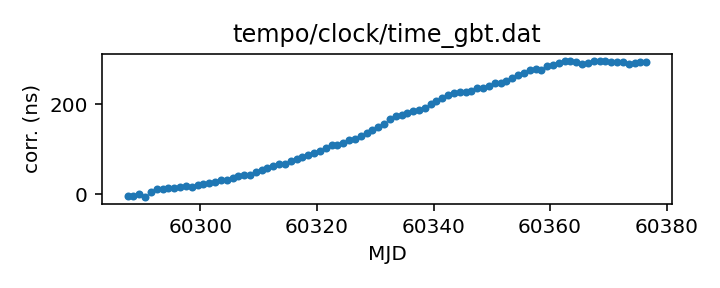
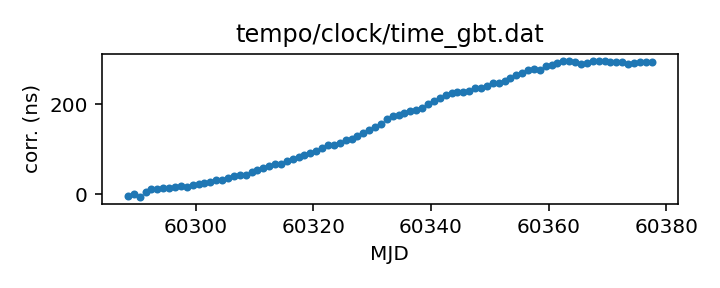
Routine gh-pages update from Github action Sat Mar  9 20:29:57 UTC 2024

diff --git a/status.md b/status.md
@@ -13,17 +13,17 @@ name of each clock file links to a page with more details.
 
 | Name | File | Corrections start | Corrections end | Last check date | Last check result 
 |:--- |:--- | --- | --- | --- |:--- 
-| [GPS to UTC](T2runtime/clock/gps2utc.clk.html) | `T2runtime/clock/gps2utc.clk` | 1993-01-01 MJD 48988.0 | 2024-01-30 MJD 60339.0 | 2024-03-08 | Unchanged 
-| [GPS to UTC (Combined Clock)](T2runtime/clock/gps2utc_cc.clk.html) | `T2runtime/clock/gps2utc_cc.clk` | 1993-01-01 MJD 48988.0 | 2024-01-30 MJD 60339.0 | 2024-03-08 | Unchanged 
-| [GPS to UTC (Corrected)](T2runtime/clock/gps2utc_c0p.clk.html) | `T2runtime/clock/gps2utc_c0p.clk` | 2010-12-29 MJD 55559.0 | 2024-01-30 MJD 60339.0 | 2024-03-08 | Unchanged 
-| [GBT](tempo/clock/time_gbt.dat.html) | `tempo/clock/time_gbt.dat` | 2000-12-31 MJD 51909.5 | 2024-03-07 MJD 60376.5 | 2024-03-08 | Updated 
-| [GBT (TEMPO2 converted from TEMPO)](T2runtime/clock/gbt2gps.clk.html) | `T2runtime/clock/gbt2gps.clk` | 2000-12-31 MJD 51909.5 | 2023-03-20 MJD 60023.5 | 2024-03-08 | **Validation failed** 
+| [GPS to UTC](T2runtime/clock/gps2utc.clk.html) | `T2runtime/clock/gps2utc.clk` | 1993-01-01 MJD 48988.0 | 2024-01-30 MJD 60339.0 | 2024-03-09 | Unchanged 
+| [GPS to UTC (Combined Clock)](T2runtime/clock/gps2utc_cc.clk.html) | `T2runtime/clock/gps2utc_cc.clk` | 1993-01-01 MJD 48988.0 | 2024-01-30 MJD 60339.0 | 2024-03-09 | Unchanged 
+| [GPS to UTC (Corrected)](T2runtime/clock/gps2utc_c0p.clk.html) | `T2runtime/clock/gps2utc_c0p.clk` | 2010-12-29 MJD 55559.0 | 2024-01-30 MJD 60339.0 | 2024-03-09 | Unchanged 
+| [GBT](tempo/clock/time_gbt.dat.html) | `tempo/clock/time_gbt.dat` | 2000-12-31 MJD 51909.5 | 2024-03-08 MJD 60377.5 | 2024-03-09 | Updated 
+| [GBT (TEMPO2 converted from TEMPO)](T2runtime/clock/gbt2gps.clk.html) | `T2runtime/clock/gbt2gps.clk` | 2000-12-31 MJD 51909.5 | 2023-03-20 MJD 60023.5 | 2024-03-09 | **Validation failed** 
 | [Jodrell Bank](T2runtime/clock/jb2gps.clk.html) | `T2runtime/clock/jb2gps.clk` | 2006-10-13 MJD 54021.4 | 2023-12-04 MJD 60282.0 | 2024-03-07 | Unchanged 
 | [Jodrell Bank Roach](T2runtime/clock/jbroach2jb.clk.html) | `T2runtime/clock/jbroach2jb.clk` | 2006-10-13 MJD 54021.4 | 2018-03-20 MJD 58197.6 | 2024-03-07 | Unchanged 
 | [Jodrell Bank DFB](T2runtime/clock/jbdfb2jb.clk.html) | `T2runtime/clock/jbdfb2jb.clk` | 2006-10-13 MJD 54021.4 | 2017-05-11 MJD 57884.0 | 2024-03-07 | Unchanged 
 | [Meerkat (observatory)](T2runtime/clock/mk2utc_observatory.clk.html) | `T2runtime/clock/mk2utc_observatory.clk` | 2019-01-01 MJD 58484.0 | 2024-01-31 MJD 60341.0 | 2024-03-07 | Unchanged 
-| [Leap seconds](tempo/clock/leap.sec.html) | `tempo/clock/leap.sec` | 1972-07-01 MJD 41499.0 | 2017-01-01 MJD 57754.0 | 2024-03-08 | Unchanged 
-| [UT1 table](tempo/clock/ut1.dat.html) | `tempo/clock/ut1.dat` | 1973-01-02 MJD 41684.0 | 2025-03-15 MJD 60749.0 | 2024-03-08 | Unchanged 
+| [Leap seconds](tempo/clock/leap.sec.html) | `tempo/clock/leap.sec` | 1972-07-01 MJD 41499.0 | 2017-01-01 MJD 57754.0 | 2024-03-09 | Unchanged 
+| [UT1 table](tempo/clock/ut1.dat.html) | `tempo/clock/ut1.dat` | 1973-01-02 MJD 41684.0 | 2025-03-15 MJD 60749.0 | 2024-03-09 | Unchanged 
 
 
 

diff --git a/T2runtime/clock/gbt2gps.clk.md b/T2runtime/clock/gbt2gps.clk.md
@@ -25,12 +25,11 @@ If questions arise about the conversion, contact Anne Archibald
 | Clock file start | 2000-12-31 MJD 51909.5 |
 | Clock file end | 2023-03-20 MJD 60023.5 |
 | Update interval (days) | 1 |
-| Last update attempt | 2024-03-08 |
+| Last update attempt | 2024-03-09 |
 | Last update result | Validation failed |
 
 Log entries from the last few update attempts:
 ```
-2024-02-28 20:29:43.716 - Validation failed: New version of T2runtime/clock/gbt2gps.clk clock corrections differ from old version where they overlap in 11 places
 2024-02-29 20:29:28.508 - Validation failed: New version of T2runtime/clock/gbt2gps.clk clock corrections differ from old version where they overlap in 11 places
 2024-03-01 20:29:37.278 - Validation failed: New version of T2runtime/clock/gbt2gps.clk clock corrections differ from old version where they overlap in 11 places
 2024-03-02 20:29:41.594 - Validation failed: New version of T2runtime/clock/gbt2gps.clk clock corrections differ from old version where they overlap in 11 places
@@ -40,6 +39,7 @@ Log entries from the last few update attempts:
 2024-03-06 20:29:28.596 - Validation failed: New version of T2runtime/clock/gbt2gps.clk clock corrections differ from old version where they overlap in 11 places
 2024-03-07 20:29:53.392 - Validation failed: New version of T2runtime/clock/gbt2gps.clk clock corrections differ from old version where they overlap in 11 places
 2024-03-08 20:29:29.513 - Validation failed: New version of T2runtime/clock/gbt2gps.clk clock corrections differ from old version where they overlap in 11 places
+2024-03-09 20:29:27.384 - Validation failed: New version of T2runtime/clock/gbt2gps.clk clock corrections differ from old version where they overlap in 11 places
 ```
 [Full log](https://raw.githubusercontent.com/ipta/pulsar-clock-corrections/main/log/T2runtime/clock/gbt2gps.clk.log)
 

diff --git a/tempo/clock/time_gbt.dat.md b/tempo/clock/time_gbt.dat.md
@@ -31,14 +31,13 @@ If questions arise, contact Ryan S. Lynch <rlynch@nrao.edu>.
 | Format | tempo |
 | Bogus last correction | False |
 | Clock file start | 2000-12-31 MJD 51909.5 |
-| Clock file end | 2024-03-07 MJD 60376.5 |
+| Clock file end | 2024-03-08 MJD 60377.5 |
 | Update interval (days) | 1 |
-| Last update attempt | 2024-03-08 |
+| Last update attempt | 2024-03-09 |
 | Last update result | Updated |
 
 Log entries from the last few update attempts:
 ```
-2024-02-28 20:29:43.663 - Updated
 2024-02-29 20:29:28.125 - Updated
 2024-03-01 20:29:37.222 - Updated
 2024-03-02 20:29:41.540 - Updated
@@ -48,6 +47,7 @@ Log entries from the last few update attempts:
 2024-03-06 20:29:28.541 - Updated
 2024-03-07 20:29:52.990 - Updated
 2024-03-08 20:29:29.458 - Updated
+2024-03-09 20:29:27.329 - Updated
 ```
 [Full log](https://raw.githubusercontent.com/ipta/pulsar-clock-corrections/main/log/tempo/clock/time_gbt.dat.log)
 

diff --git a/T2runtime/clock/gps2utc_c0p.clk.md b/T2runtime/clock/gps2utc_c0p.clk.md
@@ -30,12 +30,11 @@ about the BIPM's published corrections, contact <tai@bipm.org>.
 | Clock file start | 2010-12-29 MJD 55559.0 |
 | Clock file end | 2024-01-30 MJD 60339.0 |
 | Update interval (days) | 1 |
-| Last update attempt | 2024-03-08 |
+| Last update attempt | 2024-03-09 |
 | Last update result | Unchanged |
 
 Log entries from the last few update attempts:
 ```
-2024-02-28 20:29:42.953 - Unchanged
 2024-02-29 20:29:27.529 - Unchanged
 2024-03-01 20:29:36.777 - Unchanged
 2024-03-02 20:29:41.114 - Unchanged
@@ -45,6 +44,7 @@ Log entries from the last few update attempts:
 2024-03-06 20:29:28.105 - Unchanged
 2024-03-07 20:29:46.666 - Unchanged
 2024-03-08 20:29:29.071 - Unchanged
+2024-03-09 20:29:26.850 - Unchanged
 ```
 [Full log](https://raw.githubusercontent.com/ipta/pulsar-clock-corrections/main/log/T2runtime/clock/gps2utc_c0p.clk.log)
 

diff --git a/T2runtime/clock/gps2utc_cc.clk.md b/T2runtime/clock/gps2utc_cc.clk.md
@@ -29,12 +29,11 @@ about the BIPM's published corrections, contact <tai@bipm.org>.
 | Clock file start | 1993-01-01 MJD 48988.0 |
 | Clock file end | 2024-01-30 MJD 60339.0 |
 | Update interval (days) | 1 |
-| Last update attempt | 2024-03-08 |
+| Last update attempt | 2024-03-09 |
 | Last update result | Unchanged |
 
 Log entries from the last few update attempts:
 ```
-2024-02-28 20:29:42.944 - Unchanged
 2024-02-29 20:29:27.520 - Unchanged
 2024-03-01 20:29:36.768 - Unchanged
 2024-03-02 20:29:41.105 - Unchanged
@@ -44,6 +43,7 @@ Log entries from the last few update attempts:
 2024-03-06 20:29:28.096 - Unchanged
 2024-03-07 20:29:46.657 - Unchanged
 2024-03-08 20:29:29.062 - Unchanged
+2024-03-09 20:29:26.841 - Unchanged
 ```
 [Full log](https://raw.githubusercontent.com/ipta/pulsar-clock-corrections/main/log/T2runtime/clock/gps2utc_cc.clk.log)
 

diff --git a/T2runtime/clock/gps2utc.clk.md b/T2runtime/clock/gps2utc.clk.md
@@ -32,12 +32,11 @@ about the BIPM's published corrections, contact <tai@bipm.org>.
 | Clock file start | 1993-01-01 MJD 48988.0 |
 | Clock file end | 2024-01-30 MJD 60339.0 |
 | Update interval (days) | 1 |
-| Last update attempt | 2024-03-08 |
+| Last update attempt | 2024-03-09 |
 | Last update result | Unchanged |
 
 Log entries from the last few update attempts:
 ```
-2024-02-28 20:29:42.919 - Unchanged
 2024-02-29 20:29:27.492 - Unchanged
 2024-03-01 20:29:36.743 - Unchanged
 2024-03-02 20:29:41.080 - Unchanged
@@ -47,6 +46,7 @@ Log entries from the last few update attempts:
 2024-03-06 20:29:28.070 - Unchanged
 2024-03-07 20:29:46.631 - Unchanged
 2024-03-08 20:29:29.037 - Unchanged
+2024-03-09 20:29:26.816 - Unchanged
 ```
 [Full log](https://raw.githubusercontent.com/ipta/pulsar-clock-corrections/main/log/T2runtime/clock/gps2utc.clk.log)
 

diff --git a/tempo/clock/leap.sec.md b/tempo/clock/leap.sec.md
@@ -21,12 +21,11 @@ If there are any questions, contact Anne Archibald
 | File start | 1972-07-01 MJD 41499.0 |
 | File end | 2017-01-01 MJD 57754.0 |
 | Update interval (days) | 0 |
-| Last update attempt | 2024-03-08 |
+| Last update attempt | 2024-03-09 |
 | Last update result | Unchanged |
 
 Log entries from the last few update attempts:
 ```
-2024-02-28 20:29:44.189 - Unchanged
 2024-02-29 20:29:42.341 - Unchanged
 2024-03-01 20:29:37.307 - Unchanged
 2024-03-02 20:29:41.624 - Unchanged
@@ -36,5 +35,6 @@ Log entries from the last few update attempts:
 2024-03-06 20:29:28.972 - Unchanged
 2024-03-07 20:30:07.076 - Unchanged
 2024-03-08 20:29:29.542 - Unchanged
+2024-03-09 20:29:27.414 - Unchanged
 ```
 [Full log](https://raw.githubusercontent.com/ipta/pulsar-clock-corrections/main/log/tempo/clock/leap.sec.log)

diff --git a/tempo/clock/ut1.dat.md b/tempo/clock/ut1.dat.md
@@ -30,12 +30,11 @@ If there are any questions, contact Anne Archibald
 | File start | 1973-01-02 MJD 41684.0 |
 | File end | 2025-03-15 MJD 60749.0 |
 | Update interval (days) | 0 |
-| Last update attempt | 2024-03-08 |
+| Last update attempt | 2024-03-09 |
 | Last update result | Unchanged |
 
 Log entries from the last few update attempts:
 ```
-2024-02-28 20:29:51.910 - Unchanged
 2024-02-29 20:29:51.224 - Updated
 2024-03-01 20:29:44.497 - Unchanged
 2024-03-02 20:29:49.378 - Unchanged
@@ -45,5 +44,6 @@ Log entries from the last few update attempts:
 2024-03-06 20:29:38.037 - Unchanged
 2024-03-07 20:30:15.605 - Updated
 2024-03-08 20:29:37.179 - Unchanged
+2024-03-09 20:29:38.289 - Unchanged
 ```
 [Full log](https://raw.githubusercontent.com/ipta/pulsar-clock-corrections/main/log/tempo/clock/ut1.dat.log)
